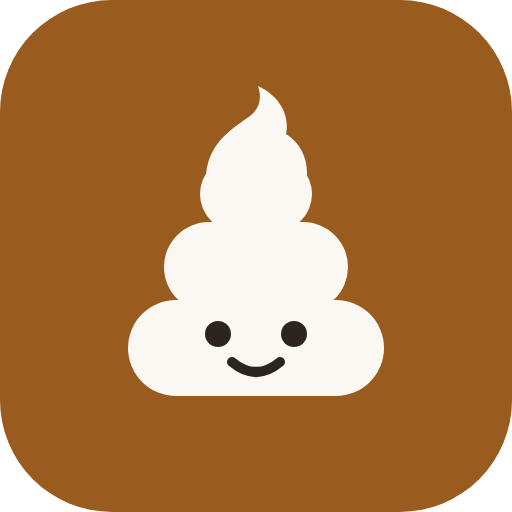
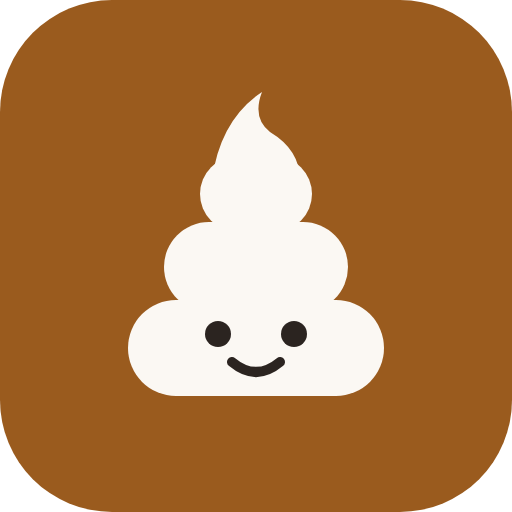
design: キャラクターの頭を C 案の形に変更

Changed region(s): [[0.4375, 0.1562, 0.625, 0.3438], [0.4062, 0.2812, 0.4375, 0.3438]]

diff --git a/index.html b/index.html
@@ -76,7 +76,7 @@
               <rect x="128" y="300" width="256" height="96" rx="48"/>
               <rect x="164" y="222" width="184" height="90" rx="45"/>
               <rect x="200" y="156" width="112" height="76" rx="38"/>
-              <path d="M206 184C204 146 230 130 250 116C260 108 262 98 258 86C280 96 290 116 286 134C302 144 310 162 306 184Z"/>
+              <path d="M212 180Q220 120 262 92Q252 118 270 132Q300 150 300 180Z"/>
             </g>
             <g class="poo-shine">
               <rect x="150" y="314" width="70" height="14" rx="7"/>
@@ -95,7 +95,7 @@
           <svg class="poo poo-mini" viewBox="0 2 64 50" aria-hidden="true" focusable="false">
             <g class="poo-body">
               <rect x="6" y="22" width="52" height="26" rx="13"/>
-              <path d="M19 30C18 22 25 18 30 14C32 12 33 9 32 5C38 8 41 13 40 18C45 20 47 25 46 30Z"/>
+              <path d="M19 30Q21 18 33 9Q31 16 36 19Q44 23 45 30Z"/>
             </g>
             <g class="poo-face">
               <circle cx="24" cy="34" r="3"/>

diff --git a/sw.js b/sw.js
@@ -1,6 +1,6 @@
 // service worker: 全アセットをプリキャッシュし、オフラインで動かす。外部オリジンへのリクエストは扱わない。
 // アセットを更新したら VERSION を上げること（古いキャッシュは activate 時に削除される）。
-const VERSION = '9';
+const VERSION = '10';
 const CACHE = `un-deta-${VERSION}`;
 
 const PRECACHE = [

diff --git a/PROGRESS.md b/PROGRESS.md
@@ -265,3 +265,4 @@
 ## 2026-11-27 デザイン調整: キャラクターの頭の形
 - 経緯: ユーザー要望「キャラクターの頭のところがそれっぽくない」
 - やったこと: てっぺんが横に突き出た旗のような形だったため、候補4案を描き比べ、上の段から丸くふくらみ先端が小さく巻く形（A案）を採用。ボタンのキャラクター（viewBox を上に拡張）、ちょっと出たの小アイコン、icons/icon.svg・icon-maskable.svg を同じ形にそろえ、`node scripts/build-icons.mjs` で PNG を再生成。sw.js VERSION=9
+- 追記: ユーザーの指定で頭の形を C 案（先がとがって片側へ流れる形）に変更。ボタン・小アイコン・アプリアイコン（PNG 再生成）をそろえ、sw.js VERSION=10
